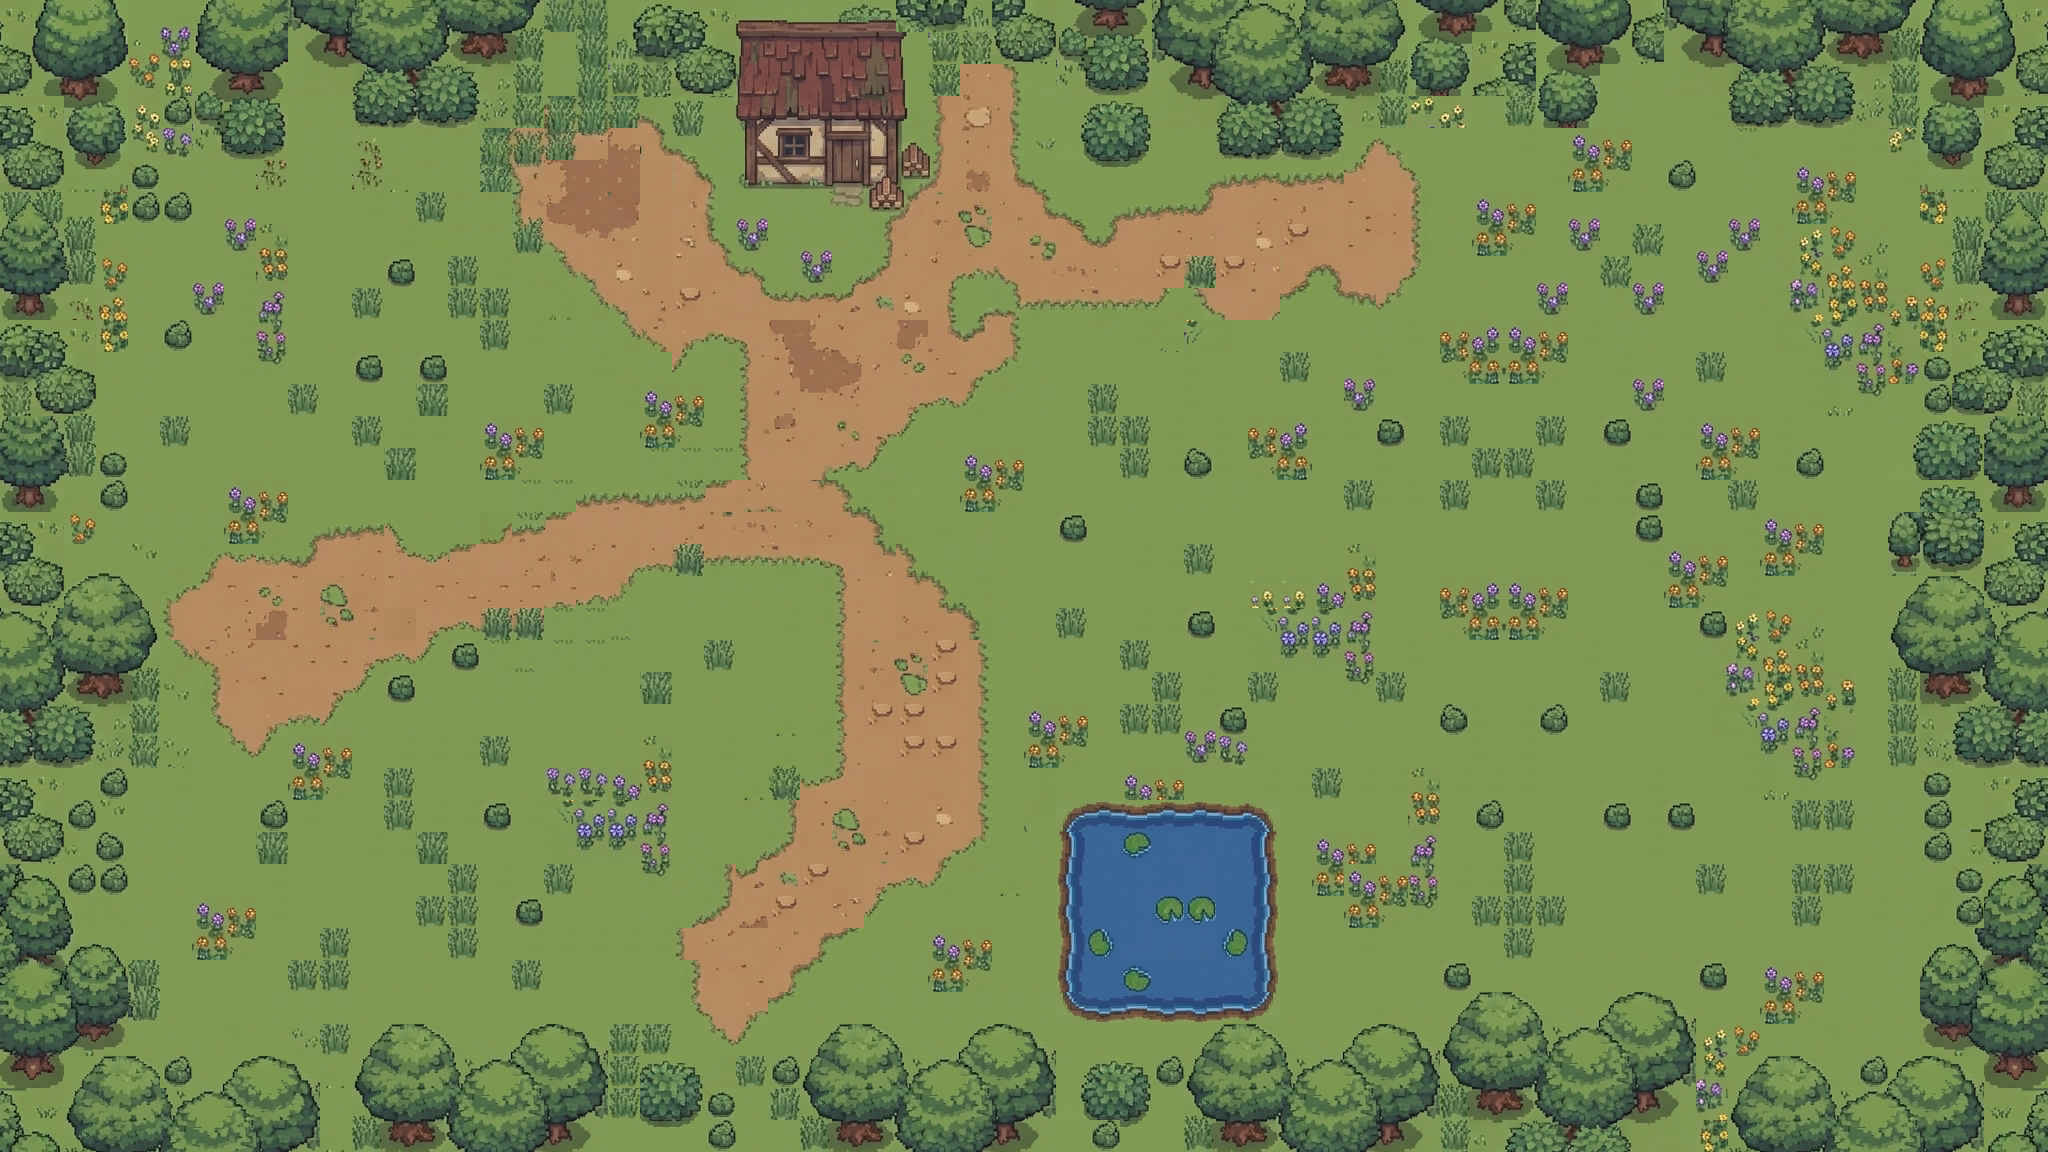
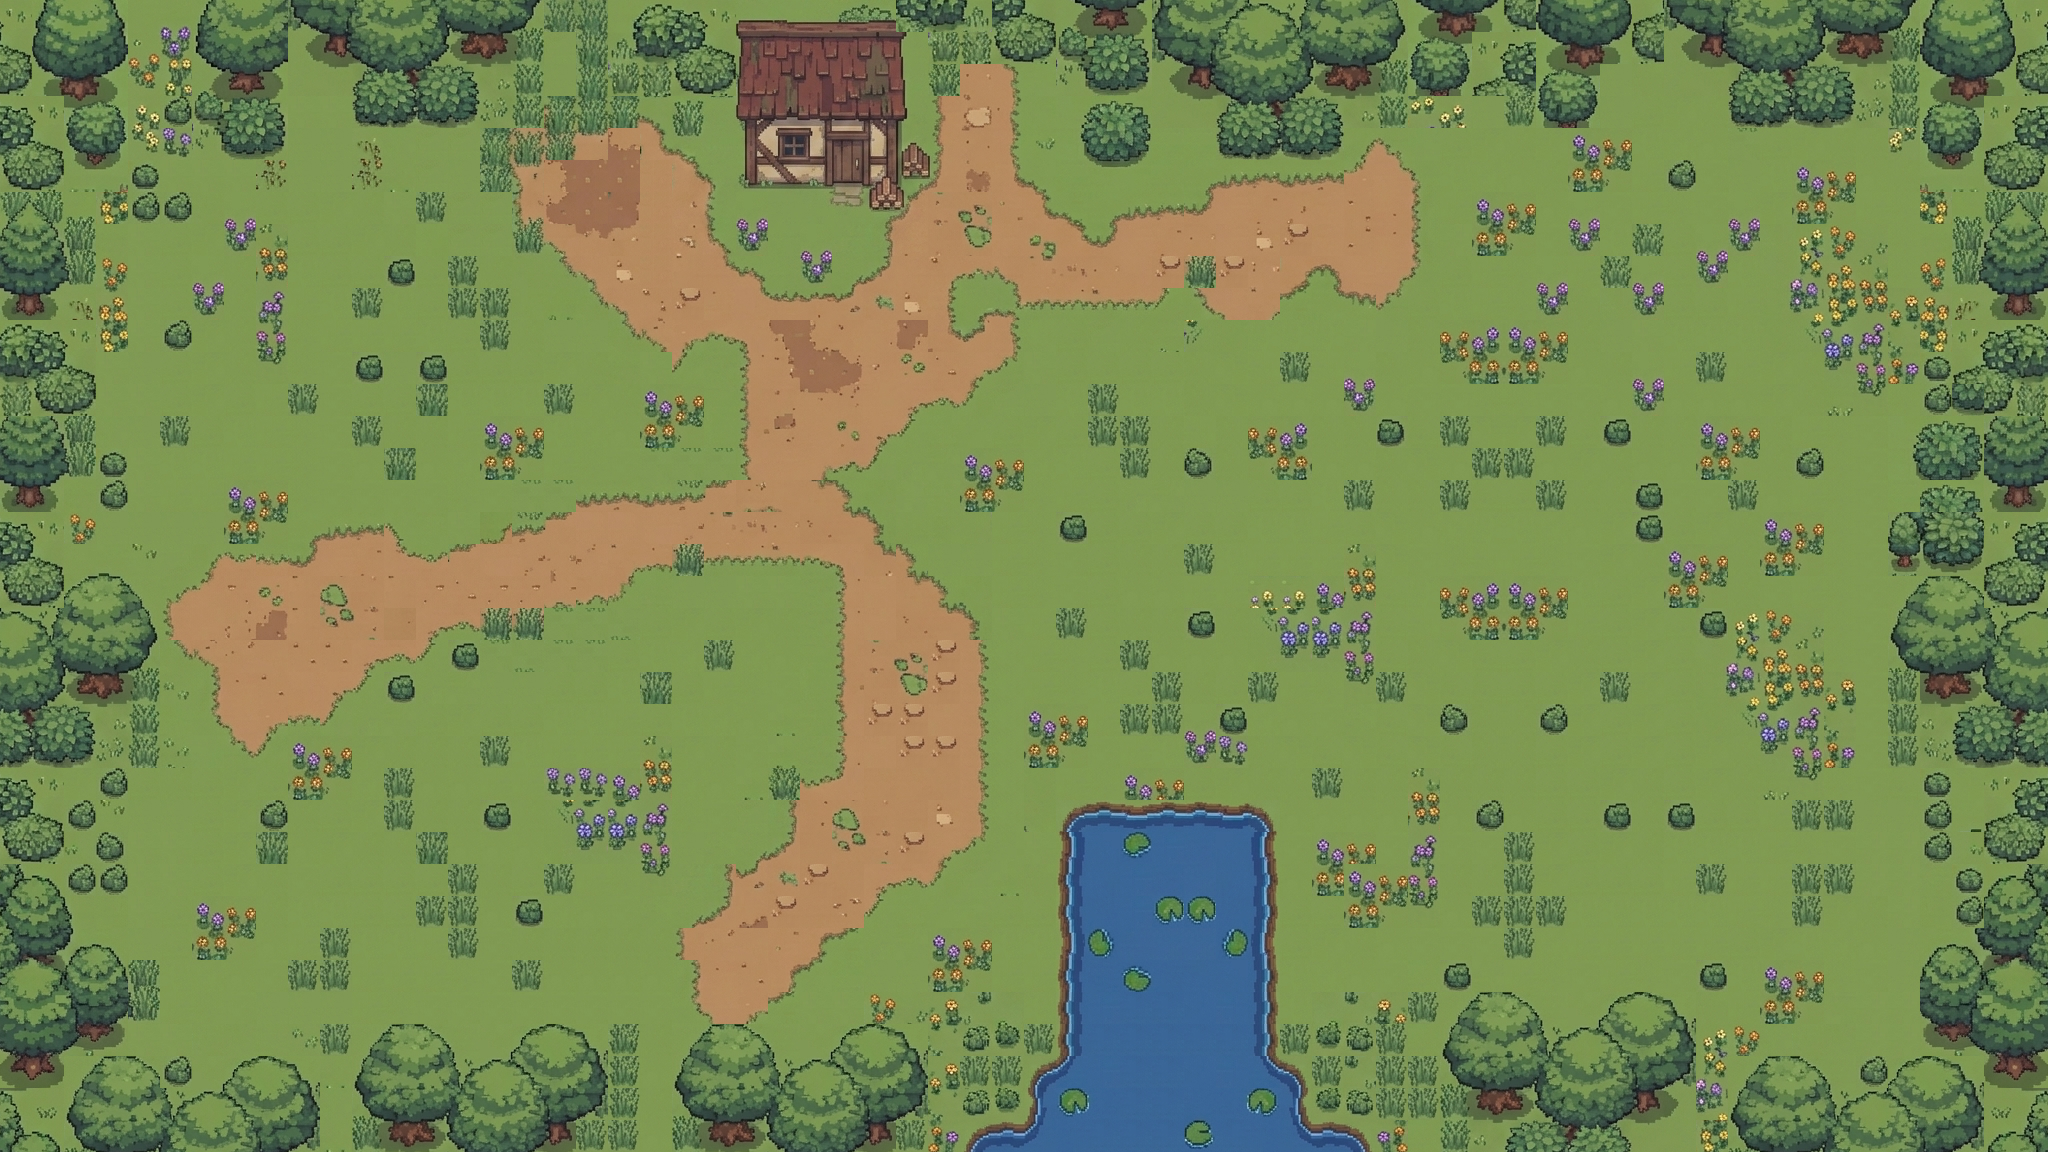
changement de la zone du lac dans la map et sa hitbox dans monde.h

Changed region(s): [[0.2812, 0.8438, 0.7188, 1.0]]

diff --git a/monde.h b/monde.h
@@ -35,7 +35,7 @@ static inline int thread_safe_rand(void)
 #define LAC_X 1050
 #define LAC_Y 803
 #define LAC_WIDTH 195
-#define LAC_HEIGHT 195
+#define LAC_HEIGHT 300
 
 // Zone de la maison (obstacle)
 #define MAISON_X 738
